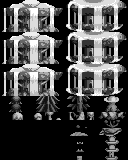
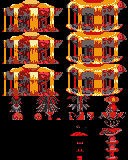
Colorize tile sheets with matched ROM palettes and add semantic names
Each background tileset is now rendered with its best-matching palette from
the ROM's palette entries (GBA RGB555), replacing the grayscale previews.
Visual inspection reveals: landscape/platforms, forest/plants, ice/water,
buildings, temple/palace, cave/ruins, fire/volcano, sky/cloud themes.

diff --git a/gallery.html b/gallery.html
@@ -185,8 +185,9 @@
             These graphics assets were extracted from the ROM's data section using
             custom decompression tools that implement the game's Huffman+LZ77 pipeline
             (matching the GBA BIOS <code>HuffUnComp</code> and <code>LZ77UnCompWram</code>
-            syscalls). Assets are rendered as 4bpp tile sheets in grayscale; actual
-            in-game colors depend on palette selection at runtime.
+            syscalls). Assets are rendered as 4bpp tile sheets colorized with
+            their closest matching ROM palette. Actual in-game colors may vary
+            as palettes are selected dynamically at runtime.
         </p>
 
         <div class="stats-row">
@@ -224,7 +225,7 @@
                     <img src="gallery/backgrounds/gfx_00.png" alt="GFX Asset 0" loading="lazy">
                 </div>
                 <div class="info">
-                    <h3>gfx_00 (UI Elements)</h3>
+                    <h3>gfx_00 — Landscape / Platforms</h3>
                     <div class="meta">
                         <span>0x32DF0C</span>
                         <span>9,732 B</span>
@@ -237,7 +238,7 @@
                     <img src="gallery/backgrounds/gfx_01.png" alt="GFX Asset 1" loading="lazy">
                 </div>
                 <div class="info">
-                    <h3>gfx_01</h3>
+                    <h3>gfx_01 — Forest / Plants</h3>
                     <div class="meta">
                         <span>0x32ECF0</span>
                         <span>6,148 B</span>
@@ -250,7 +251,7 @@
                     <img src="gallery/backgrounds/gfx_02.png" alt="GFX Asset 2" loading="lazy">
                 </div>
                 <div class="info">
-                    <h3>gfx_02</h3>
+                    <h3>gfx_02 — Ice / Water</h3>
                     <div class="meta">
                         <span>0x32F6E8</span>
                         <span>6,148 B</span>
@@ -263,7 +264,7 @@
                     <img src="gallery/backgrounds/gfx_03.png" alt="GFX Asset 3" loading="lazy">
                 </div>
                 <div class="info">
-                    <h3>gfx_03</h3>
+                    <h3>gfx_03 — Buildings / Architecture</h3>
                     <div class="meta">
                         <span>0x33018C</span>
                         <span>10,244 B</span>
@@ -276,7 +277,7 @@
                     <img src="gallery/backgrounds/gfx_04.png" alt="GFX Asset 4" loading="lazy">
                 </div>
                 <div class="info">
-                    <h3>gfx_04</h3>
+                    <h3>gfx_04 — Temple / Palace</h3>
                     <div class="meta">
                         <span>0x330FC4</span>
                         <span>18,436 B</span>
@@ -289,7 +290,7 @@
                     <img src="gallery/backgrounds/gfx_06.png" alt="GFX Asset 6" loading="lazy">
                 </div>
                 <div class="info">
-                    <h3>gfx_06 (World Tiles)</h3>
+                    <h3>gfx_06 — Forest World Tiles</h3>
                     <div class="meta">
                         <span>0x331E48</span>
                         <span>114,692 B</span>
@@ -302,7 +303,7 @@
                     <img src="gallery/backgrounds/gfx_07.png" alt="GFX Asset 7" loading="lazy">
                 </div>
                 <div class="info">
-                    <h3>gfx_07 (World Tiles)</h3>
+                    <h3>gfx_07 — Cave / Ruins Tiles</h3>
                     <div class="meta">
                         <span>0x33A734</span>
                         <span>94,212 B</span>
@@ -315,7 +316,7 @@
                     <img src="gallery/backgrounds/gfx_08.png" alt="GFX Asset 8" loading="lazy">
                 </div>
                 <div class="info">
-                    <h3>gfx_08</h3>
+                    <h3>gfx_08 — Snow / Ice World</h3>
                     <div class="meta">
                         <span>0x341DF8</span>
                         <span>41,124 B</span>
@@ -328,7 +329,7 @@
                     <img src="gallery/backgrounds/gfx_09.png" alt="GFX Asset 9" loading="lazy">
                 </div>
                 <div class="info">
-                    <h3>gfx_09 (World Tiles)</h3>
+                    <h3>gfx_09 — Fire / Volcano Tiles</h3>
                     <div class="meta">
                         <span>0x3452A4</span>
                         <span>82,948 B</span>
@@ -341,7 +342,7 @@
                     <img src="gallery/backgrounds/gfx_10.png" alt="GFX Asset 10" loading="lazy">
                 </div>
                 <div class="info">
-                    <h3>gfx_10 (World Tiles)</h3>
+                    <h3>gfx_10 — Sky / Cloud Tiles</h3>
                     <div class="meta">
                         <span>0x34D190</span>
                         <span>73,732 B</span>
@@ -354,7 +355,7 @@
                     <img src="gallery/backgrounds/gfx_11.png" alt="GFX Asset 11" loading="lazy">
                 </div>
                 <div class="info">
-                    <h3>gfx_11 (World Tiles)</h3>
+                    <h3>gfx_11 — Final World Tiles</h3>
                     <div class="meta">
                         <span>0x354B2C</span>
                         <span>149,508 B</span>
